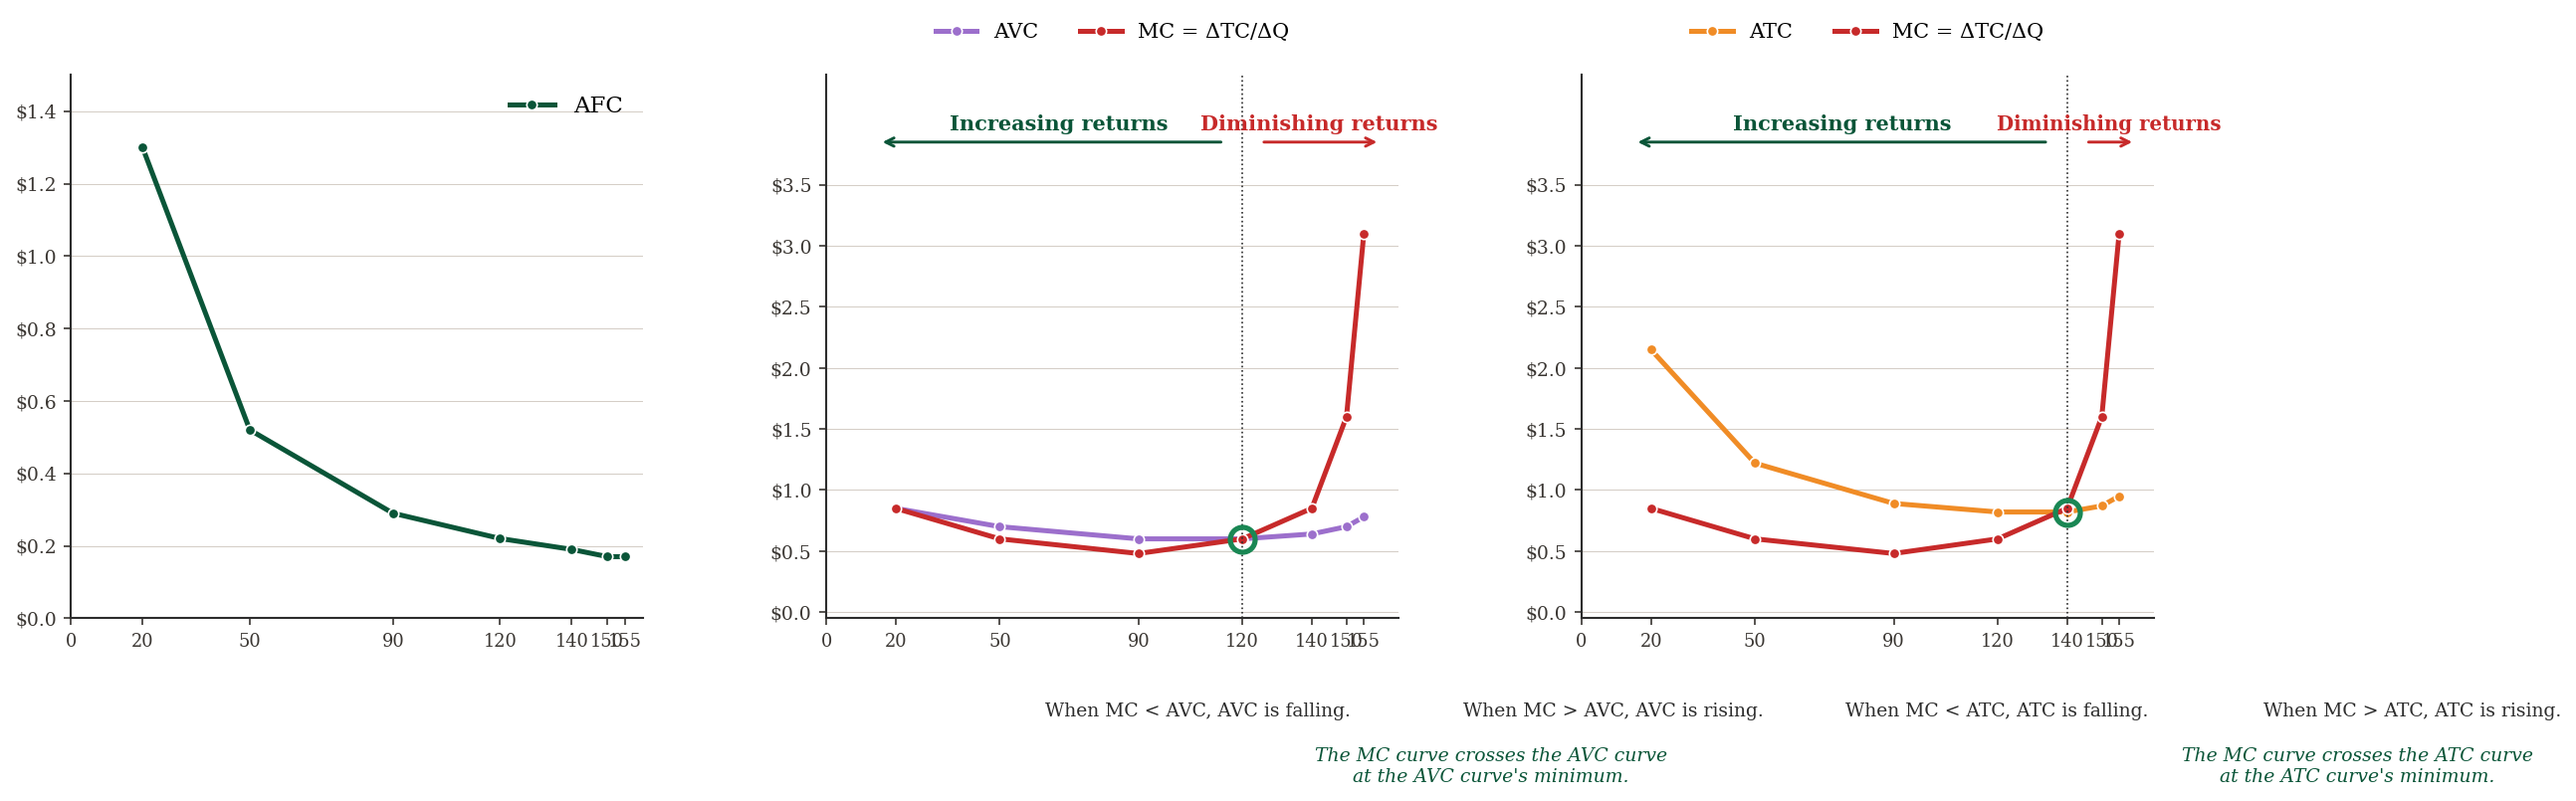
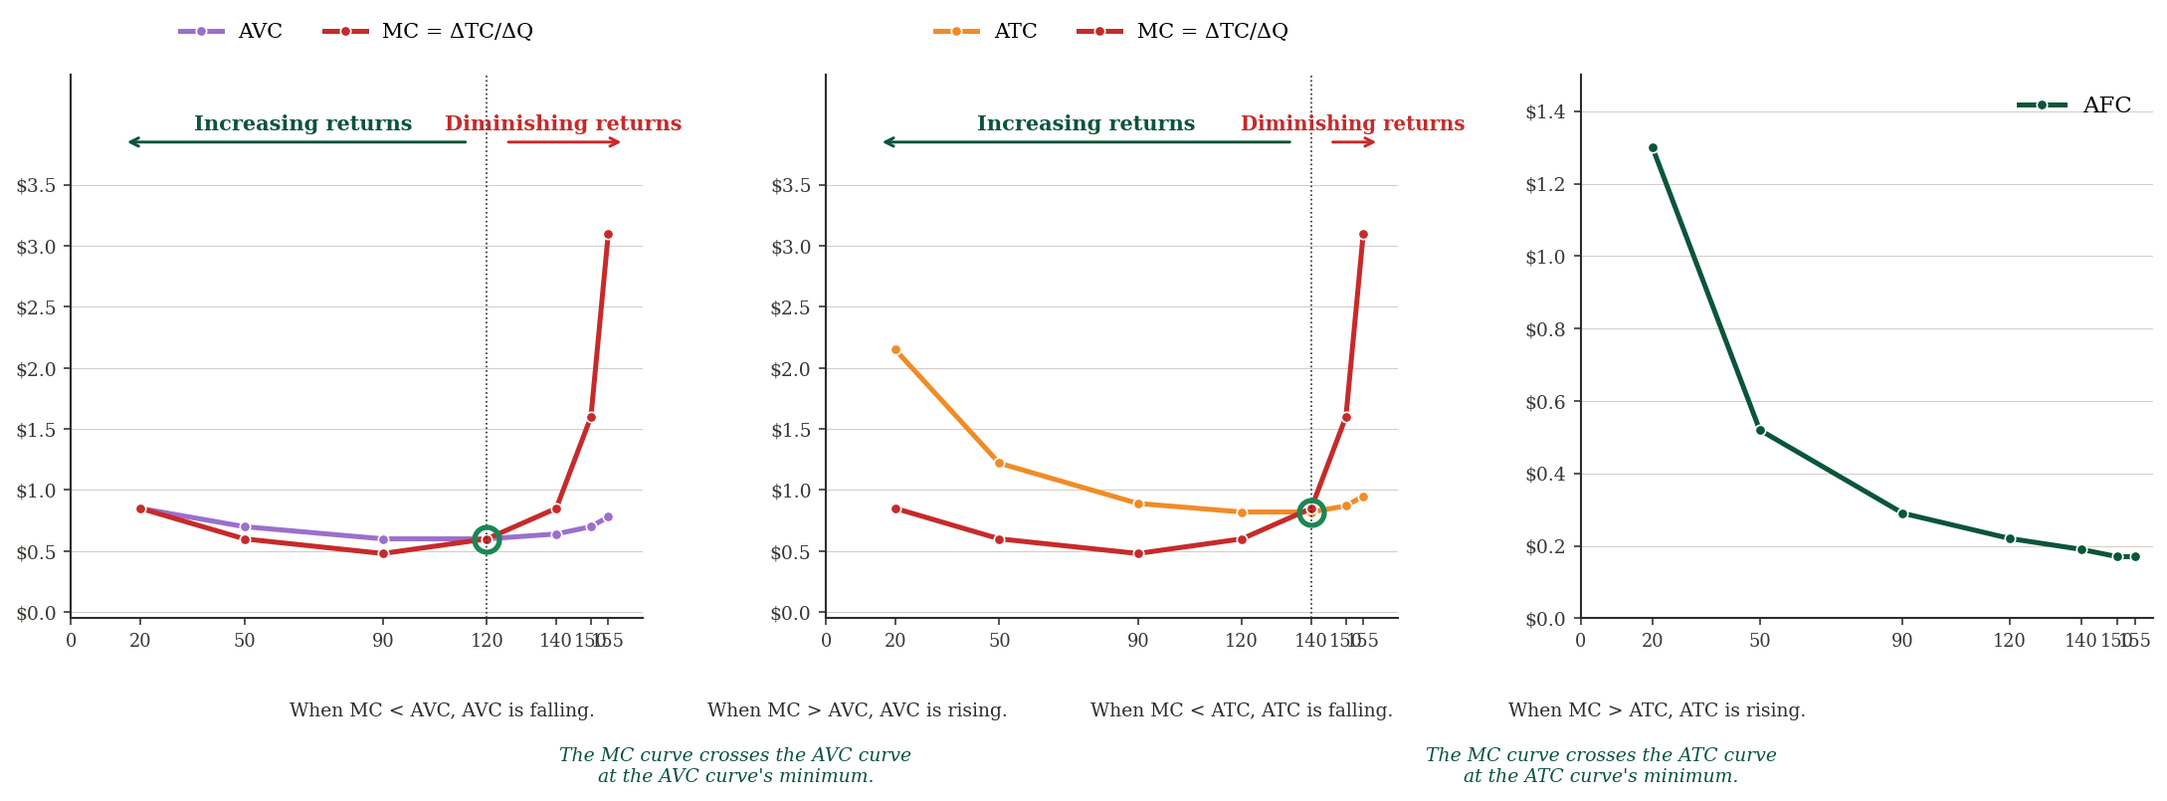
ch08: page 50 step-by-step reveal in new panel order — AVC+MC | ATC+MC | AFC
Two requested changes on page 50 (amc-three-panels):

1. Move AFC last. Previously AFC was the LEFT/1st panel — that put the simplest curve (monotone declining, no MC interaction) in the leading position. Moved it to the 3rd panel so the slide leads with the curves where the MC-crosses-AC-at-minimum identity is visible (AVC and ATC), and closes with the spreading-effect AFC.

2. Fix ATC+MC (was 3rd, now 2nd). The old order put ATC+MC after AVC+MC and after AFC at slot 3. New sequence puts ATC+MC immediately after AVC+MC so the U-shape parallel between the two is back-to-back.

Show by step:

  Initial state: AVC+MC panel visible (left column) + AVC+MC bullet

  → Reveal: ATC+MC panel (middle column) + ATC+MC bullet

  → Reveal: AFC panel (right column) + AFC bullet

Implementation: refactored fig_amc_three_panels() to factor out 3 _draw_* helpers, then emit 4 PNGs — fig-amc-panel-avc-mc.png, fig-amc-panel-atc-mc.png, fig-amc-panel-afc.png (each a single 6.5x5.6 figure) plus the combined fig-amc-three-panels.png in the new AVC|ATC|AFC order. The slide now uses the 3 single-panel PNGs in a 3-column grid with fragment classes on the 2nd and 3rd panels + matching bullets below.

diff --git a/econ2316/ch08-costs-of-production/index.html b/econ2316/ch08-costs-of-production/index.html
@@ -1816,27 +1816,58 @@
 
 <!-- ===== Slide 30 — Average and Marginal Costs (3-panel) ===== -->
 <section id="amc-three-panels">
-  <h2><i class="fa-solid fa-chart-line" style="color: var(--success-color);"></i> Average and Marginal Costs</h2>
-  <div style="text-align: center; margin-top: 4px;">
-    <img alt="Three-panel cost-curve diagram. Left: AFC continuously declining. Middle: AVC (purple, U-shape) and MC (red) crossing at AVC minimum at Q=120, with arrows marking Increasing returns / Diminishing returns zones. Right: ATC (orange, U-shape) and MC (red) crossing at ATC minimum at Q=140, with the same zone arrows." src="figures/fig-amc-three-panels.png" style="width: 100%; max-height: 430px;">
-  </div>
-  <div style="display: grid; grid-template-columns: 1fr 1.8fr; gap: 20px; margin-top: 8px;">
+  <h2><i class="fa-solid fa-chart-line" style="color: var(--success-color);"></i> Average and Marginal Costs &mdash; Three Curves, Step by Step</h2>
+  <!-- 3-column grid: AVC+MC (1st), ATC+MC (2nd), AFC (last) -->
+  <div style="display: grid; grid-template-columns: 1fr 1fr 1fr; gap: 10px; margin-top: 4px;">
+
+    <!-- Panel 1: AVC + MC (always visible) -->
     <div>
-      <p style="font-size: 11.5pt; color: #0A5538; font-weight: 800; margin: 0;">Average Fixed Cost</p>
-      <p style="font-size: 11pt; line-height: 1.45; margin: 4px 0 0;">
-        Decreases continuously as more output is produced &mdash; the <strong>spreading effect</strong> of fixed cost over more units.
+      <p style="font-size: 11pt; margin: 0 0 4px; text-align: center;">
+        <span style="color: #9C6FCC; font-weight: 800;">AVC</span> + <span style="color: #C72A2A; font-weight: 800;">MC</span>
+        &nbsp;&middot;&nbsp; crossing at \(Q = 120\)
+      </p>
+      <img alt="AVC (purple, U-shape) and MC (red) crossing at AVC minimum at Q=120; Increasing-returns / Diminishing-returns zone arrows above the chart." src="figures/fig-amc-panel-avc-mc.png" style="width: 100%; max-height: 340px;">
+    </div>
+
+    <!-- Panel 2: ATC + MC (fragment 1) -->
+    <div class="fragment fade-up" data-fragment-index="1">
+      <p style="font-size: 11pt; margin: 0 0 4px; text-align: center;">
+        <span style="color: #F08C26; font-weight: 800;">ATC</span> + <span style="color: #C72A2A; font-weight: 800;">MC</span>
+        &nbsp;&middot;&nbsp; crossing at \(Q = 140\)
+      </p>
+      <img alt="ATC (orange, U-shape) and MC (red) crossing at ATC minimum at Q=140; Increasing-returns / Diminishing-returns zone arrows above the chart." src="figures/fig-amc-panel-atc-mc.png" style="width: 100%; max-height: 340px;">
+    </div>
+
+    <!-- Panel 3: AFC (fragment 2 — moved last) -->
+    <div class="fragment fade-up" data-fragment-index="2">
+      <p style="font-size: 11pt; margin: 0 0 4px; text-align: center;">
+        <span style="color: #0A5538; font-weight: 800;">AFC</span>
+        &nbsp;&middot;&nbsp; monotonically declining
+      </p>
+      <img alt="AFC (dark green) continuously declining as Q grows — the spreading effect of fixed cost over more units." src="figures/fig-amc-panel-afc.png" style="width: 100%; max-height: 340px;">
+    </div>
+  </div>
+
+  <!-- Text bullets in matching order: AVC+MC | ATC+MC | AFC (last) -->
+  <div style="display: grid; grid-template-columns: 1fr 1fr 1fr; gap: 10px; margin-top: 8px;">
+    <div>
+      <p style="font-size: 10pt; line-height: 1.4; margin: 0;">
+        <strong><span style="color: #9C6FCC;">AVC</span></strong> is <strong>U-shaped</strong>: falls during <em style="color: #0A5538;">increasing returns</em>, then rises under <em style="color: #C72A2A;">diminishing returns</em>. <strong>MC crosses AVC at its minimum.</strong>
       </p>
     </div>
-    <div>
-      <p style="font-size: 11.5pt; margin: 0;">
-        <span style="color: #9C6FCC; font-weight: 800;">Average Variable Cost</span> and <span style="color: #F08C26; font-weight: 800;">Average Total Cost</span>
+    <div class="fragment fade-up" data-fragment-index="1">
+      <p style="font-size: 10pt; line-height: 1.4; margin: 0;">
+        <strong><span style="color: #F08C26;">ATC</span></strong> is also <strong>U-shaped</strong> &mdash; \(ATC = AVC + AFC\), so it sits above AVC by the AFC gap. <strong>MC crosses ATC at its minimum</strong> (further right than AVC's, since AFC is still pulling ATC down a bit).
       </p>
-      <p style="font-size: 11pt; line-height: 1.45; margin: 4px 0 0;">
-        <strong>U-shaped</strong>: initially decreasing due to <em style="color: #0A5538;">increasing returns</em>, then increasing due to <em style="color: #C72A2A;">diminishing returns</em>. MC crosses each curve at its <strong>minimum</strong>.
+    </div>
+    <div class="fragment fade-up" data-fragment-index="2">
+      <p style="font-size: 10pt; line-height: 1.4; margin: 0;">
+        <strong><span style="color: #0A5538;">AFC</span></strong> decreases continuously as more output is produced &mdash; the <strong>spreading effect</strong> of fixed cost over more units. (No U-shape: no MC interaction here.)
       </p>
     </div>
   </div>
-  <aside class="notes">Three-panel diagnostic visualization of the AC/MC relationship. Panel A (AFC alone) shows the spreading effect — fixed cost averaged over more output. Panel B (AVC + MC) shows the canonical U-shape with MC crossing at AVC's minimum (~Q=120). Panel C (ATC + MC) shows ATC's U-shape with MC crossing at ATC's minimum (~Q=140 here). The Increasing returns / Diminishing returns labels at the top of each panel anchor the economic intuition: when each extra worker still adds a lot to output (increasing returns), each extra unit of output gets cheaper (MC and AVC falling); when each extra worker adds less (diminishing returns), each extra unit gets more expensive (MC rising, eventually pulling AVC and ATC up). The MC-crossing-at-minimum identity is a mathematical consequence of d(AC)/dQ = (MC − AC)/Q.</aside>
+
+  <aside class="notes">Three-panel diagnostic with step-by-step reveal in the order AVC+MC → ATC+MC → AFC. Initial state shows AVC+MC alone (left panel + first bullet) so students focus on the canonical MC-crosses-AVC-at-minimum identity. Press → to reveal ATC+MC and its bullet — same shape, same crossing geometry, just shifted up by AFC. Press → again to reveal AFC last: it's the simplest of the three (monotone declining, no MC interaction), so saved as the closing curve rather than leading with it. Pedagogical rationale: the AC/MC crossing-at-minimum identity is the headline economic content; lead with the curves where that identity is visible (AVC and ATC), close with the spreading-effect AFC which lacks the U-shape and the crossing. Returns labels (Increasing returns / Diminishing returns) are baked into each panel image at the top to anchor economic intuition without cluttering the slide.</aside>
 </section>
 
 <!-- ===== Slide 29 — Average and Marginal Costs (GPA analogy) ===== -->

diff --git a/econ2316/ch08-costs-of-production/presentation.html b/econ2316/ch08-costs-of-production/presentation.html
@@ -1816,27 +1816,58 @@
 
 <!-- ===== Slide 30 — Average and Marginal Costs (3-panel) ===== -->
 <section id="amc-three-panels">
-  <h2><i class="fa-solid fa-chart-line" style="color: var(--success-color);"></i> Average and Marginal Costs</h2>
-  <div style="text-align: center; margin-top: 4px;">
-    <img alt="Three-panel cost-curve diagram. Left: AFC continuously declining. Middle: AVC (purple, U-shape) and MC (red) crossing at AVC minimum at Q=120, with arrows marking Increasing returns / Diminishing returns zones. Right: ATC (orange, U-shape) and MC (red) crossing at ATC minimum at Q=140, with the same zone arrows." src="figures/fig-amc-three-panels.png" style="width: 100%; max-height: 430px;">
-  </div>
-  <div style="display: grid; grid-template-columns: 1fr 1.8fr; gap: 20px; margin-top: 8px;">
+  <h2><i class="fa-solid fa-chart-line" style="color: var(--success-color);"></i> Average and Marginal Costs &mdash; Three Curves, Step by Step</h2>
+  <!-- 3-column grid: AVC+MC (1st), ATC+MC (2nd), AFC (last) -->
+  <div style="display: grid; grid-template-columns: 1fr 1fr 1fr; gap: 10px; margin-top: 4px;">
+
+    <!-- Panel 1: AVC + MC (always visible) -->
     <div>
-      <p style="font-size: 11.5pt; color: #0A5538; font-weight: 800; margin: 0;">Average Fixed Cost</p>
-      <p style="font-size: 11pt; line-height: 1.45; margin: 4px 0 0;">
-        Decreases continuously as more output is produced &mdash; the <strong>spreading effect</strong> of fixed cost over more units.
+      <p style="font-size: 11pt; margin: 0 0 4px; text-align: center;">
+        <span style="color: #9C6FCC; font-weight: 800;">AVC</span> + <span style="color: #C72A2A; font-weight: 800;">MC</span>
+        &nbsp;&middot;&nbsp; crossing at \(Q = 120\)
+      </p>
+      <img alt="AVC (purple, U-shape) and MC (red) crossing at AVC minimum at Q=120; Increasing-returns / Diminishing-returns zone arrows above the chart." src="figures/fig-amc-panel-avc-mc.png" style="width: 100%; max-height: 340px;">
+    </div>
+
+    <!-- Panel 2: ATC + MC (fragment 1) -->
+    <div class="fragment fade-up" data-fragment-index="1">
+      <p style="font-size: 11pt; margin: 0 0 4px; text-align: center;">
+        <span style="color: #F08C26; font-weight: 800;">ATC</span> + <span style="color: #C72A2A; font-weight: 800;">MC</span>
+        &nbsp;&middot;&nbsp; crossing at \(Q = 140\)
+      </p>
+      <img alt="ATC (orange, U-shape) and MC (red) crossing at ATC minimum at Q=140; Increasing-returns / Diminishing-returns zone arrows above the chart." src="figures/fig-amc-panel-atc-mc.png" style="width: 100%; max-height: 340px;">
+    </div>
+
+    <!-- Panel 3: AFC (fragment 2 — moved last) -->
+    <div class="fragment fade-up" data-fragment-index="2">
+      <p style="font-size: 11pt; margin: 0 0 4px; text-align: center;">
+        <span style="color: #0A5538; font-weight: 800;">AFC</span>
+        &nbsp;&middot;&nbsp; monotonically declining
+      </p>
+      <img alt="AFC (dark green) continuously declining as Q grows — the spreading effect of fixed cost over more units." src="figures/fig-amc-panel-afc.png" style="width: 100%; max-height: 340px;">
+    </div>
+  </div>
+
+  <!-- Text bullets in matching order: AVC+MC | ATC+MC | AFC (last) -->
+  <div style="display: grid; grid-template-columns: 1fr 1fr 1fr; gap: 10px; margin-top: 8px;">
+    <div>
+      <p style="font-size: 10pt; line-height: 1.4; margin: 0;">
+        <strong><span style="color: #9C6FCC;">AVC</span></strong> is <strong>U-shaped</strong>: falls during <em style="color: #0A5538;">increasing returns</em>, then rises under <em style="color: #C72A2A;">diminishing returns</em>. <strong>MC crosses AVC at its minimum.</strong>
       </p>
     </div>
-    <div>
-      <p style="font-size: 11.5pt; margin: 0;">
-        <span style="color: #9C6FCC; font-weight: 800;">Average Variable Cost</span> and <span style="color: #F08C26; font-weight: 800;">Average Total Cost</span>
+    <div class="fragment fade-up" data-fragment-index="1">
+      <p style="font-size: 10pt; line-height: 1.4; margin: 0;">
+        <strong><span style="color: #F08C26;">ATC</span></strong> is also <strong>U-shaped</strong> &mdash; \(ATC = AVC + AFC\), so it sits above AVC by the AFC gap. <strong>MC crosses ATC at its minimum</strong> (further right than AVC's, since AFC is still pulling ATC down a bit).
       </p>
-      <p style="font-size: 11pt; line-height: 1.45; margin: 4px 0 0;">
-        <strong>U-shaped</strong>: initially decreasing due to <em style="color: #0A5538;">increasing returns</em>, then increasing due to <em style="color: #C72A2A;">diminishing returns</em>. MC crosses each curve at its <strong>minimum</strong>.
+    </div>
+    <div class="fragment fade-up" data-fragment-index="2">
+      <p style="font-size: 10pt; line-height: 1.4; margin: 0;">
+        <strong><span style="color: #0A5538;">AFC</span></strong> decreases continuously as more output is produced &mdash; the <strong>spreading effect</strong> of fixed cost over more units. (No U-shape: no MC interaction here.)
       </p>
     </div>
   </div>
-  <aside class="notes">Three-panel diagnostic visualization of the AC/MC relationship. Panel A (AFC alone) shows the spreading effect — fixed cost averaged over more output. Panel B (AVC + MC) shows the canonical U-shape with MC crossing at AVC's minimum (~Q=120). Panel C (ATC + MC) shows ATC's U-shape with MC crossing at ATC's minimum (~Q=140 here). The Increasing returns / Diminishing returns labels at the top of each panel anchor the economic intuition: when each extra worker still adds a lot to output (increasing returns), each extra unit of output gets cheaper (MC and AVC falling); when each extra worker adds less (diminishing returns), each extra unit gets more expensive (MC rising, eventually pulling AVC and ATC up). The MC-crossing-at-minimum identity is a mathematical consequence of d(AC)/dQ = (MC − AC)/Q.</aside>
+
+  <aside class="notes">Three-panel diagnostic with step-by-step reveal in the order AVC+MC → ATC+MC → AFC. Initial state shows AVC+MC alone (left panel + first bullet) so students focus on the canonical MC-crosses-AVC-at-minimum identity. Press → to reveal ATC+MC and its bullet — same shape, same crossing geometry, just shifted up by AFC. Press → again to reveal AFC last: it's the simplest of the three (monotone declining, no MC interaction), so saved as the closing curve rather than leading with it. Pedagogical rationale: the AC/MC crossing-at-minimum identity is the headline economic content; lead with the curves where that identity is visible (AVC and ATC), close with the spreading-effect AFC which lacks the U-shape and the crossing. Returns labels (Increasing returns / Diminishing returns) are baked into each panel image at the top to anchor economic intuition without cluttering the slide.</aside>
 </section>
 
 <!-- ===== Slide 29 — Average and Marginal Costs (GPA analogy) ===== -->
